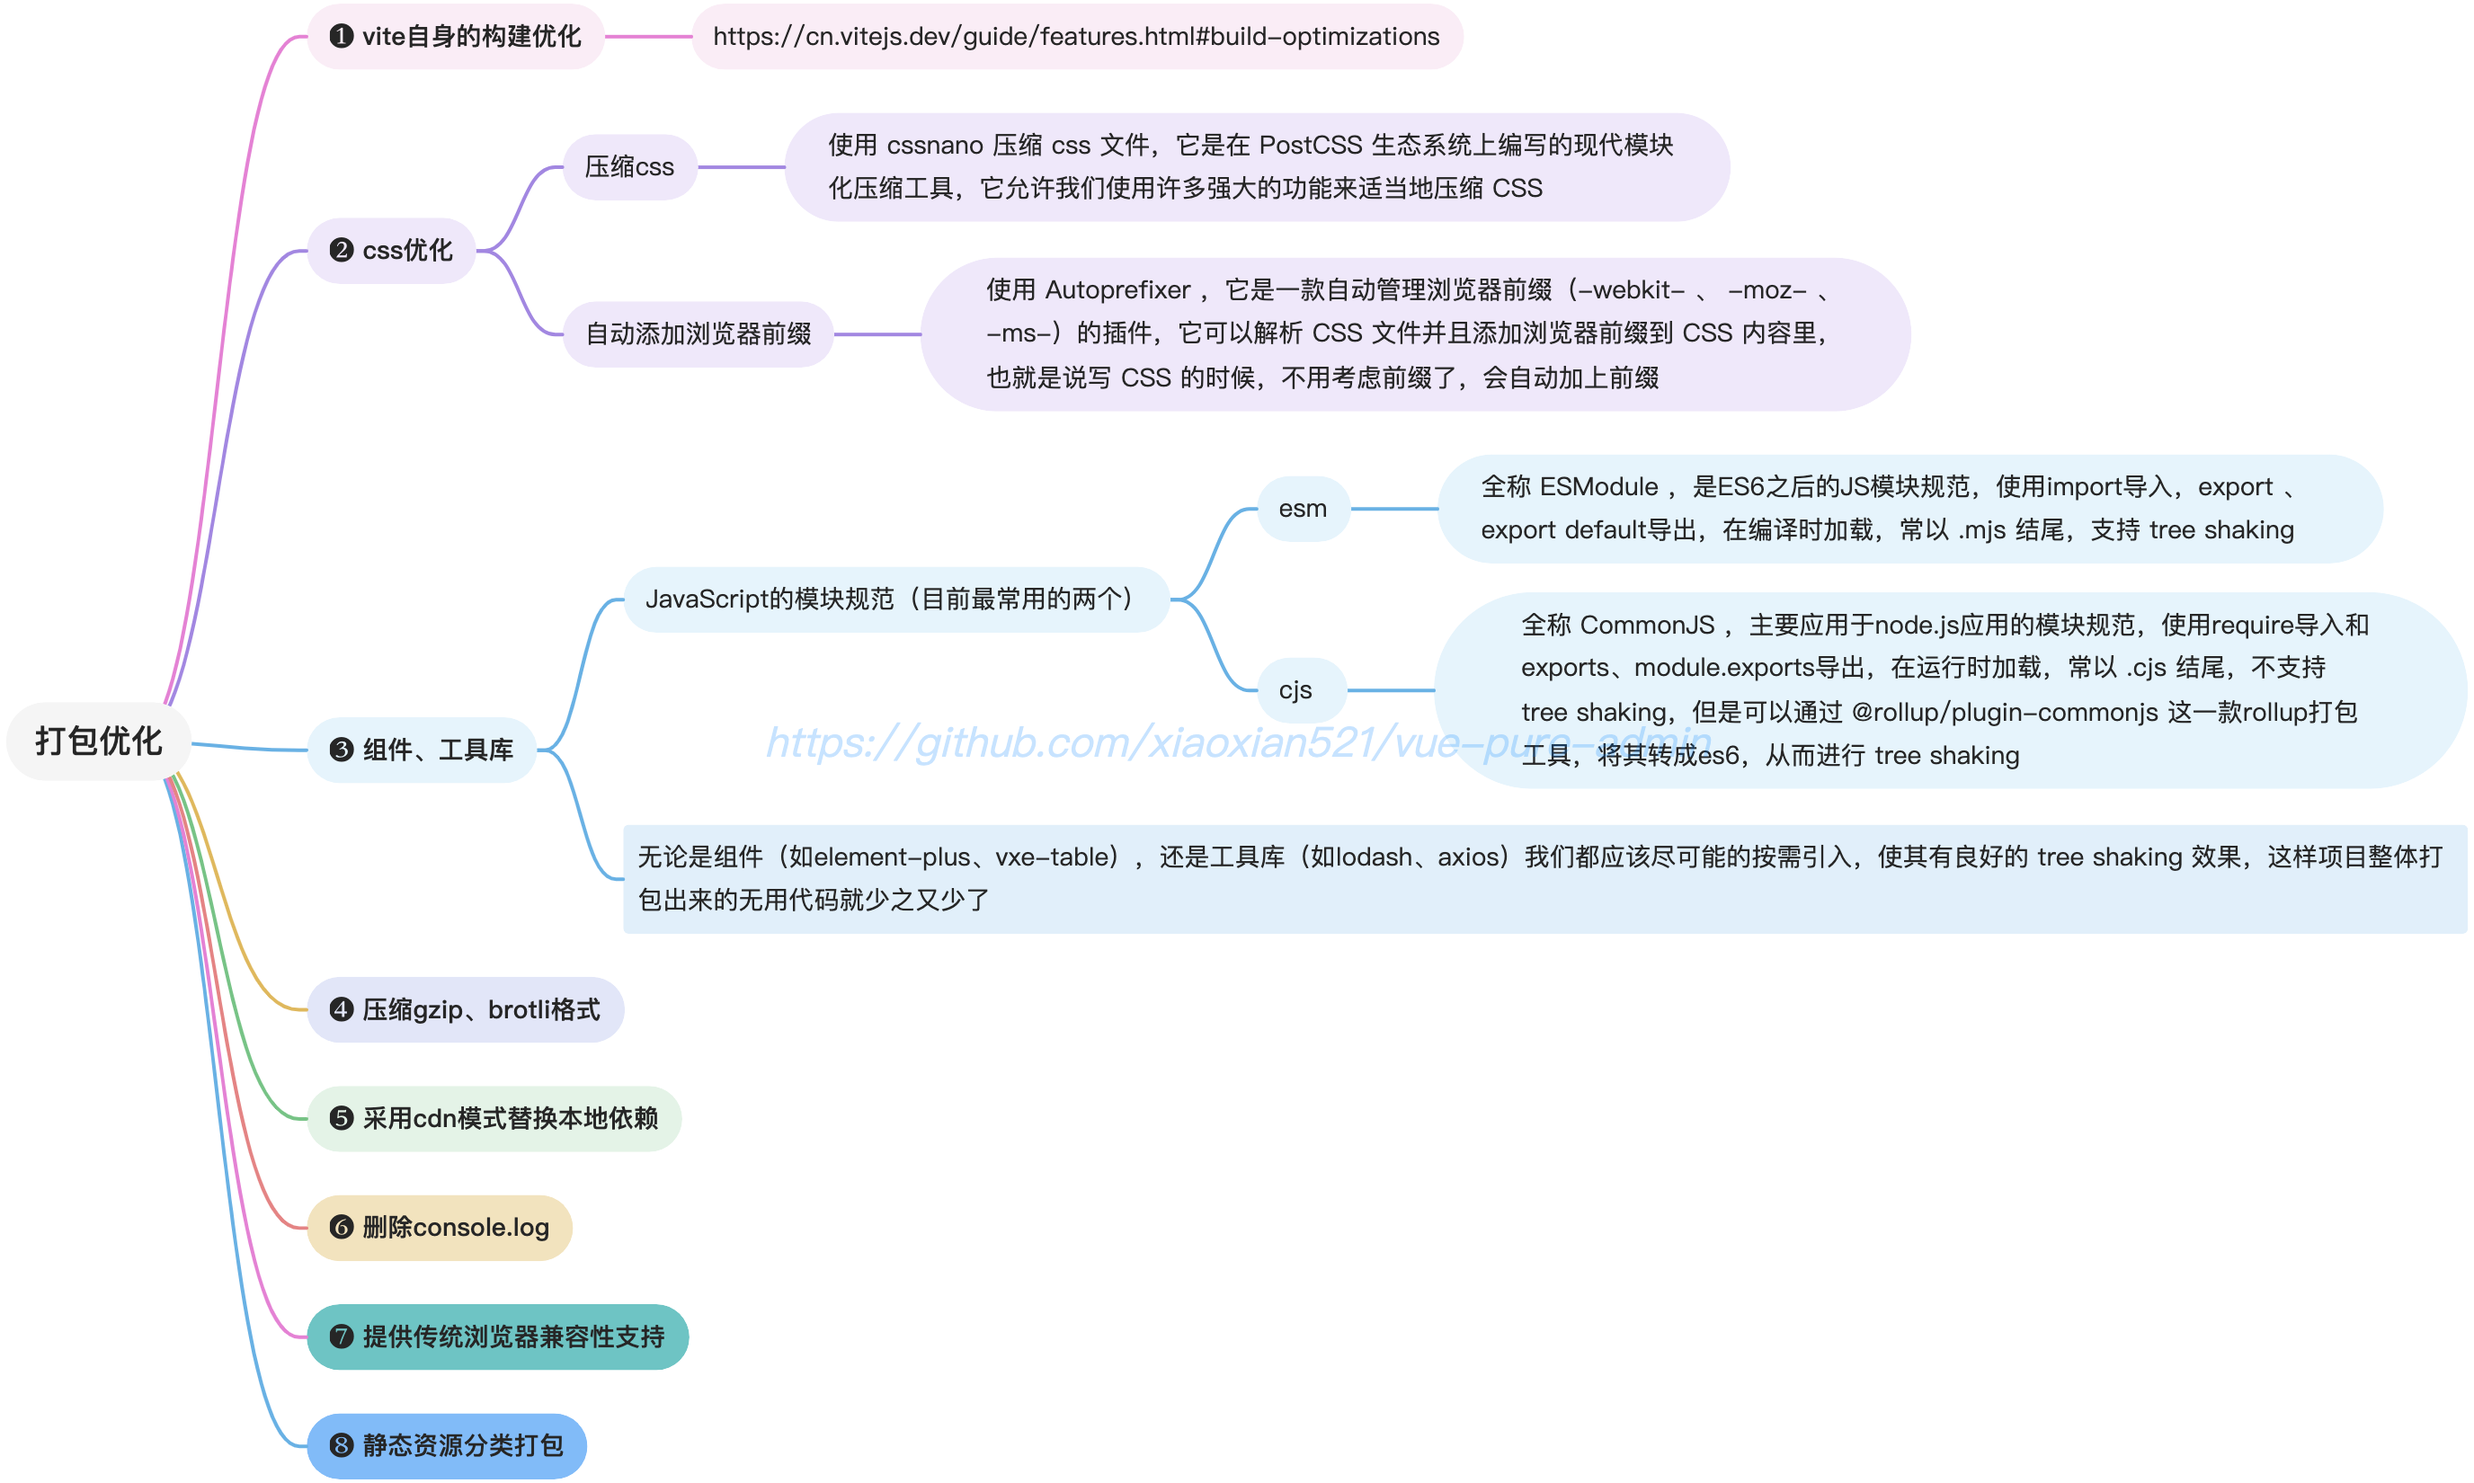
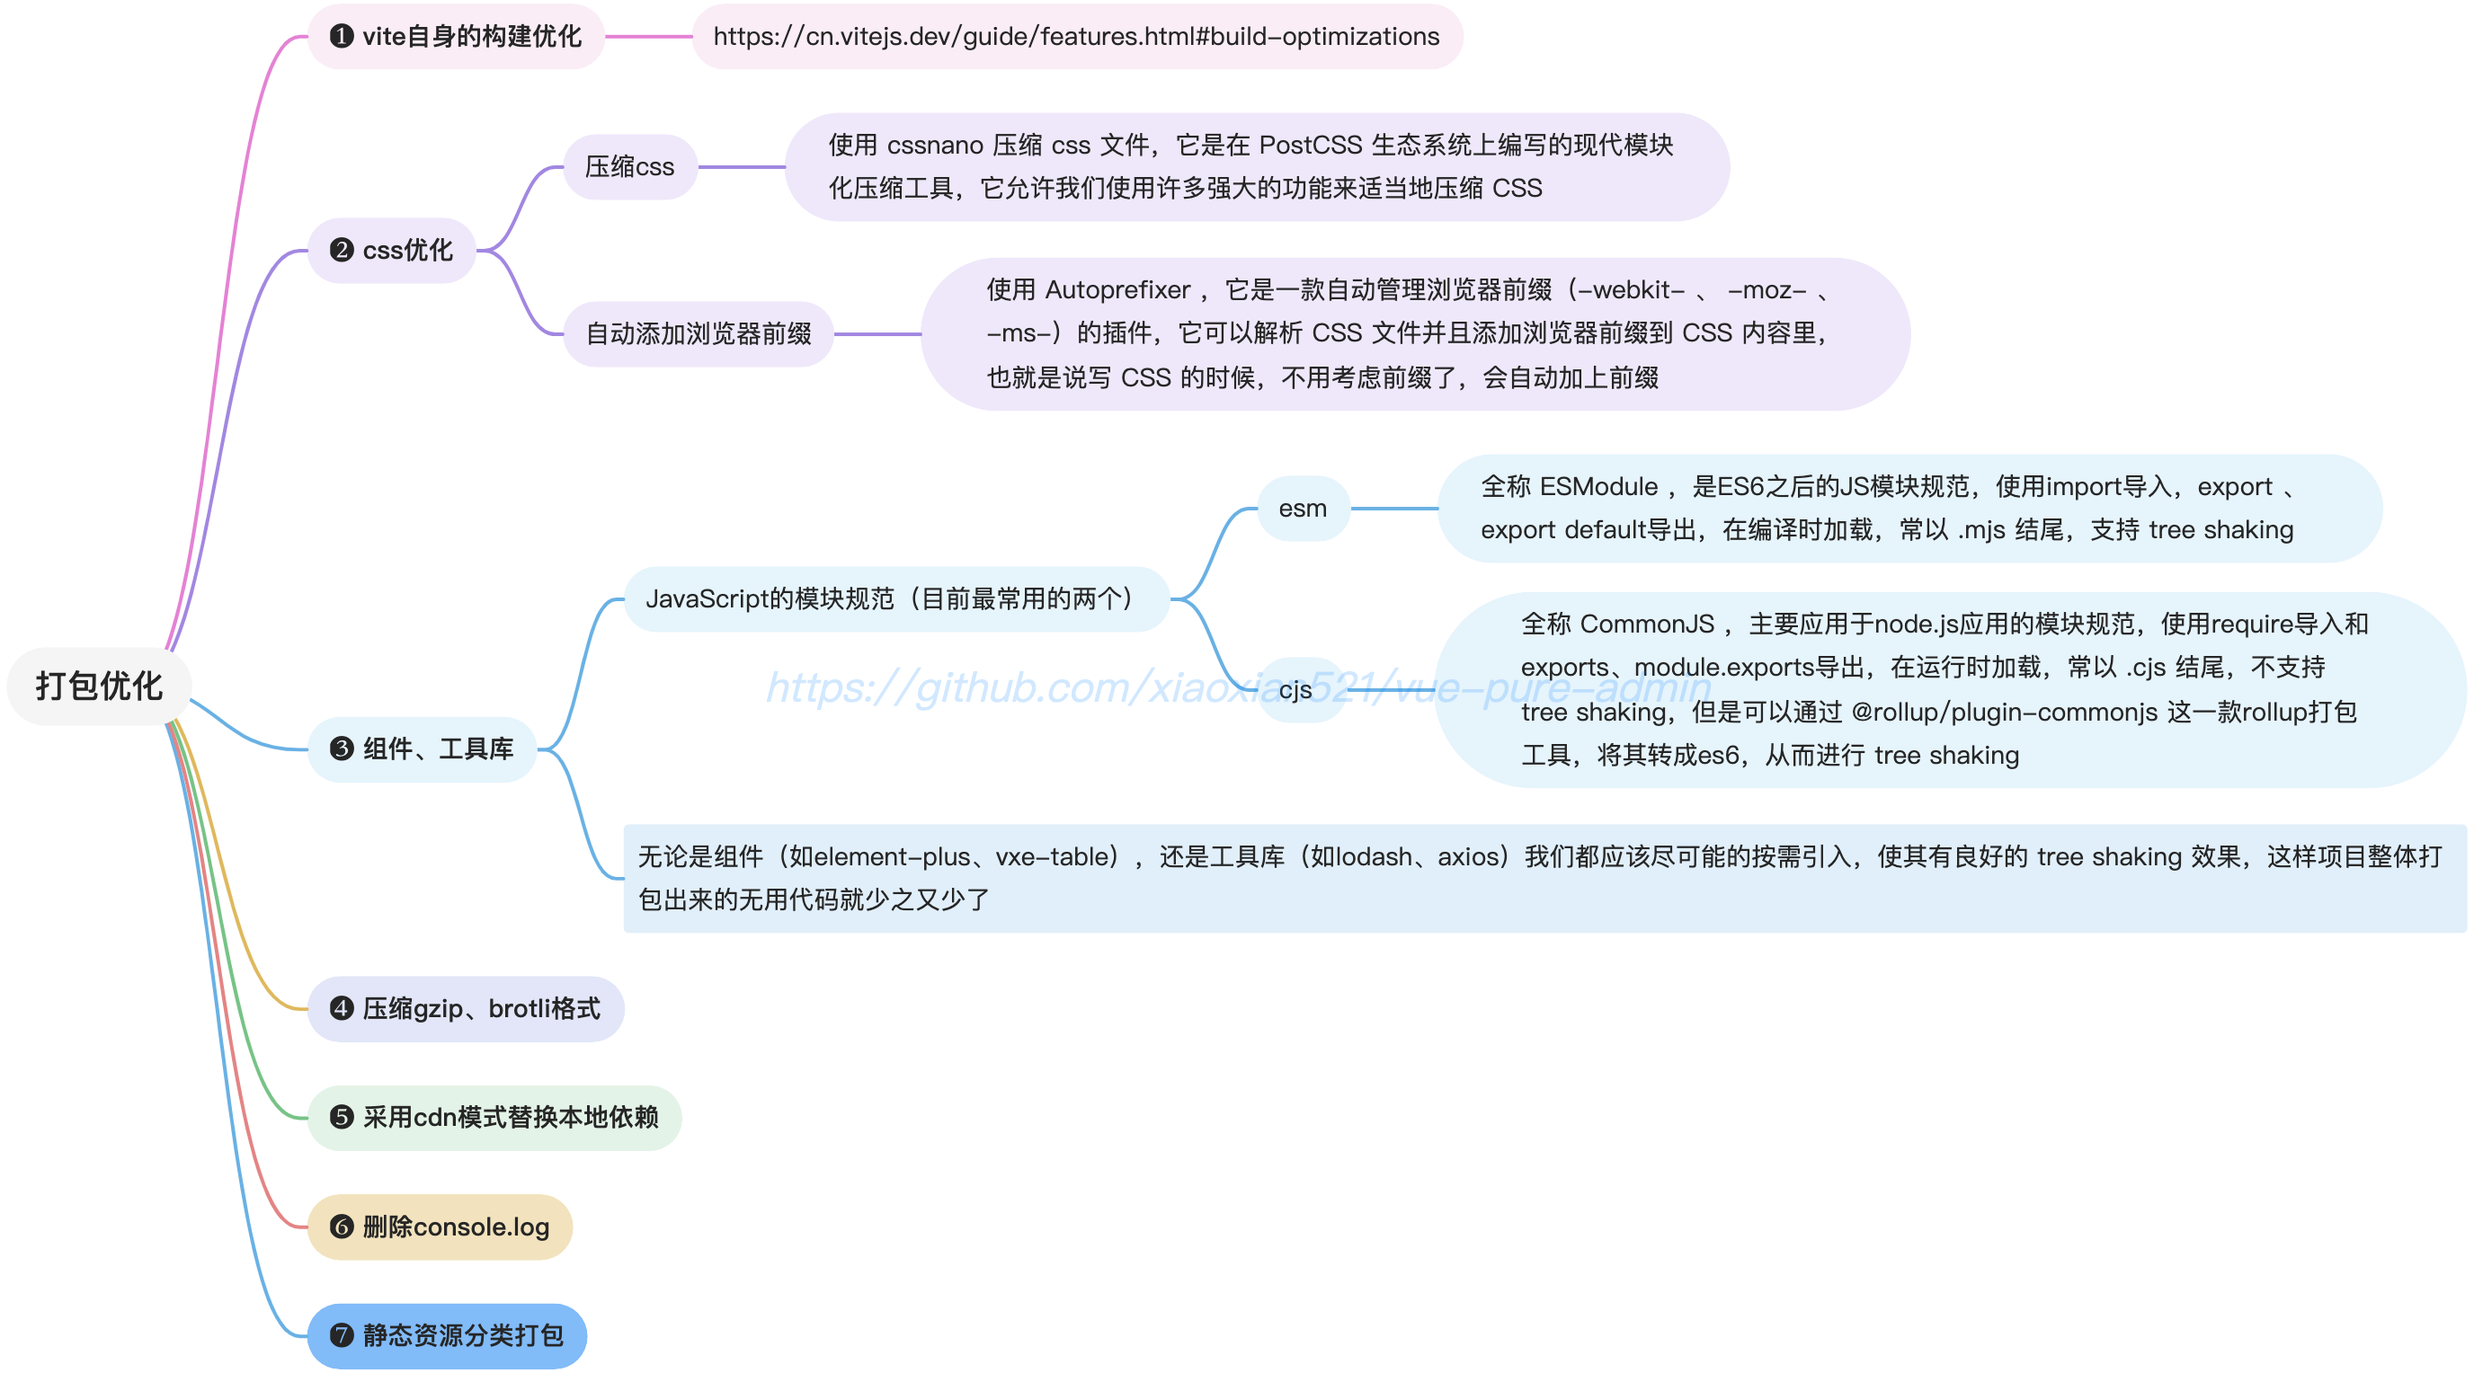
docs: update

diff --git a/docs/01.指南/05.其他/01.常见问题.md b/docs/01.指南/05.其他/01.常见问题.md
@@ -7,6 +7,10 @@ permalink: /pages/FAQ/
 温馨提示：文件存放路径不要带有中文，文件存放路径不要带有中文，文件存放路径不要带有中文，中文可能会造成乱码，导致项目无法运行！！！重要的事情说三遍
 <img alt="smile" width="35px" height="35px" src="https://emojipedia-us.s3.amazonaws.com/source/skype/289/smiling-face-with-smiling-eyes_1f60a.png">
 
+## 是否支持 `IE` ？
+
+答：`vue3` 官方说过不支持 `ie`，具体看 [rfcs](https://github.com/vuejs/rfcs/blob/master/active-rfcs/0038-vue3-ie11-support.md) 和 [cn.vuejs](https://cn.vuejs.org/about/faq.html#what-browsers-does-vue-support)。当然有人会说 [@vitejs/plugin-legacy](https://cn.vitejs.dev/plugins/#vitejsplugin-legacy) 会支持 `ie`，它的确会，但是它是一款 `vite` 插件，只对非 `vue3` 的框架进行支持，目前没有任何一款工具可以使 `vue3` 支持 `ie` 浏览器，如果您项目需要支持 `ie`，请慎重考虑使用本平台。如果您既要使用最新技术并且又想稳定又要兼容 `ie` 浏览器的话可以选择 `vue2.7` 的某个版本搭配 `vue-cli` 最新版本
+
 ## `Nuxt3` 版本和 `JS` 版本会开发吗？
 
 - `Nuxt3` 版本  

diff --git a/docs/01.指南/02.进阶/08.打包优化.md b/docs/01.指南/02.进阶/08.打包优化.md
@@ -104,10 +104,6 @@ VITE_COMPRESSION = "none"
 
 使用平台开发的 [vite-plugin-remove-console](https://github.com/xiaoxian521/vite-plugin-remove-console) 插件，在打包构建时移除项目中所有的 `console.log`
 
-## 提供传统浏览器兼容性支持
-
-使用 `vite` 推荐的 [@vitejs/plugin-legacy](https://cn.vitejs.dev/plugins/#vitejsplugin-legacy) 插件，在打包构建前，只需来到 `.env.production` 文件，将 [VITE_LEGACY](https://gitee.com/yiming_chang/pure-admin-thin/blob/main/.env.production#L11) 设置成 `true` 即可打包出兼容低版本浏览器和 `IE11` 版本的代码
-
 ## 静态资源分类打包
 
 `vite` 是基于 `esbuild` 和 `rollup`构建的，在打包时如果不进行 `output` 的配置，打包出来的效果如下图（这也是 `vite` 默认打包出来的效果，可以看到所有文件都混在一起）

diff --git a/docs/01.指南/01.指南/05.平台配置.md b/docs/01.指南/01.指南/05.平台配置.md
@@ -19,7 +19,7 @@ permalink: /pages/config/
 
 ### 具体配置
 
-平台内置 `六` 个环境变量，具体如下
+平台内置 `五` 个环境变量，具体如下
 
 ```sh
 # 平台本地运行端口号
@@ -30,9 +30,6 @@ VITE_PUBLIC_PATH = /
 
 # 平台路由历史模式（Hash模式传"hash"、HTML5模式传"h5"、Hash模式带base参数传"hash,base参数"、HTML5模式带base参数传"h5,base参数"）
 VITE_ROUTER_HISTORY = "hash"
-
-# 是否为打包后的文件提供传统浏览器兼容性支持 支持 true 不支持 false
-VITE_LEGACY = false
 
 # 是否在打包时使用cdn替换本地库 替换 true 不替换 false
 VITE_CDN = false
